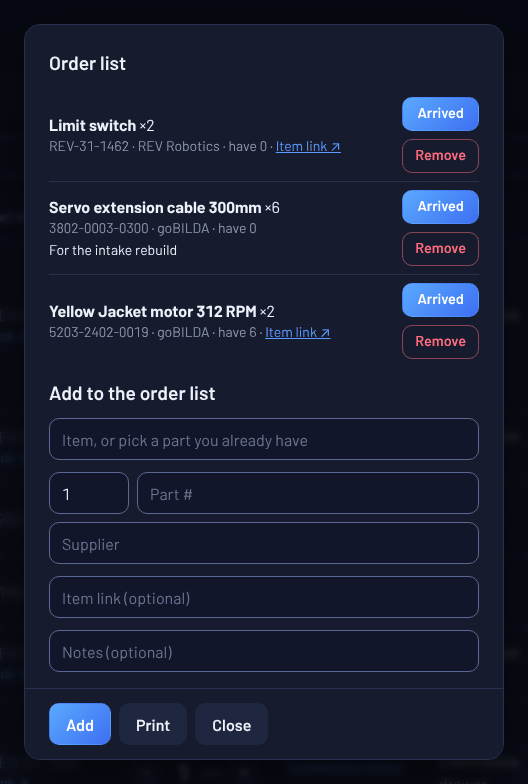
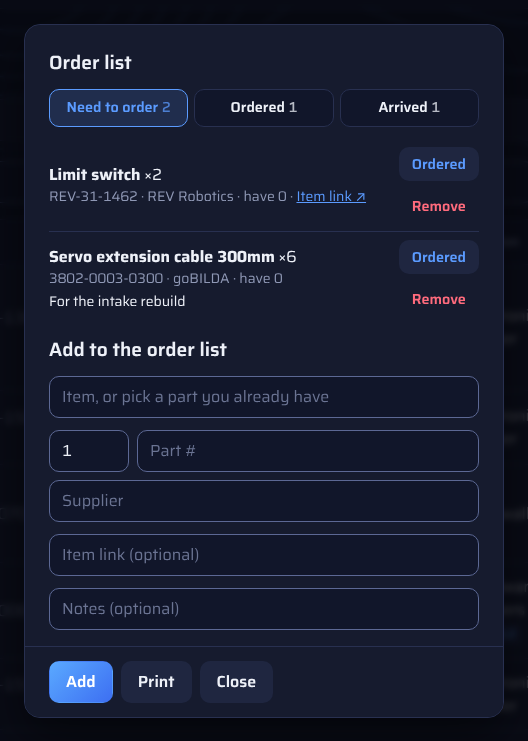
Order list: Need to order, Ordered and Arrived tabs
Orders can carry an optional status, 'ordered' or 'arrived'; orders without one
(every order made before this) still need to be ordered. Ordered moves an order
to the next tab, Arrived adds it to the inventory and keeps it under Arrived
until the team clears it. Print prints the tab shown. Rules version 7.

diff --git a/src/main.js b/src/main.js
@@ -175,8 +175,13 @@ const inventoryNote = (part) => (inventories().length > 1 ? project(part.project
 // A packing list only holds a part once it's checked off as packed.
 const holdsPart = (use) => use.packed !== false;
 const inUse = (partId) => usesOfPart(partId).filter(holdsPart).reduce((sum, u) => sum + u.quantity, 0);
+// An order is to be ordered (no status, like every order from before statuses), ordered, or arrived.
+const orderStatus = (order) => order.status ?? 'need';
+const ORDER_TABS = [['need', 'Need to order'], ['ordered', 'Ordered'], ['arrived', 'Arrived']];
+// Orders still to come: arrived ones are already in the inventory.
+const openOrders = () => state.orders.filter((o) => orderStatus(o) !== 'arrived');
 // How many of a part the team is waiting on from the order list.
-const onOrder = (partId) => state.orders.filter((o) => o.partId === partId).reduce((sum, o) => sum + o.quantity, 0);
+const onOrder = (partId) => openOrders().filter((o) => o.partId === partId).reduce((sum, o) => sum + o.quantity, 0);
 // None of the part has arrived yet: the team has none and some are on order.
 const waiting = (partId) => onOrder(partId) > 0 && !state.parts.find((p) => p.id === partId).quantity;
 // The inventory part's free count (what projects and packed lists aren't using) is down to its "Low stock at" quantity
@@ -1339,7 +1344,7 @@ function chooseBackup() {
 const NAME_FIELDS = [['name', 'Name']];
 const USE_FIELDS = [['quantity', 'Using'], ['packed', 'Packed']];
 const GRID_FIELDS = [['rows', 'Rows'], ['cols', 'Columns']];
-const ORDER_FIELDS = [['name', 'Item'], ['partNumber', 'Part #'], ['quantity', 'Qty'], ['supplier', 'Supplier'], ['link', 'Link'], ['notes', 'Notes']];
+const ORDER_FIELDS = [['name', 'Item'], ['partNumber', 'Part #'], ['quantity', 'Qty'], ['supplier', 'Supplier'], ['link', 'Link'], ['notes', 'Notes'], ['status', 'Status']];
 const useDetails = (use) => ({ quantity: use.quantity, packed: use.packed === undefined ? '' : use.packed ? 'Yes' : 'No' });
 
 // What restoring a backup does: `add` holds what's in it and not in the team. Add mode keeps everything the team has;
@@ -2196,13 +2201,18 @@ async function renameLocation(location) {
   if (edits.length) editParts(edits, 'edited', countParts(edits.length), `Location ${location.name} → ${name}`);
 }
 
-// Parts the team is waiting on. "Arrived" moves an order into the inventory. Tapping an order loads it into the form below to change it.
+// Parts the team needs, has ordered, or got, one tab each. "Ordered" moves an order to the next tab, "Arrived" adds it to the
+// inventory and keeps it under Arrived until the team clears it. Tapping an order loads it into the form below to change it.
 function openOrdersDialog() {
   const dialog = app.querySelector('#dialog');
   dialog.innerHTML = `
     <form method="dialog" class="card">
       <h2>Order list</h2>
+      <div class="order-tabs" role="group" aria-label="Show orders">
+        ${ORDER_TABS.map(([key, label]) => `<button type="button" class="secondary" data-tab="${key}">${label} <span class="tab-count"></span></button>`).join('')}
+      </div>
       <ul id="order-list" class="members"></ul>
+      <button type="button" id="clear-arrived" class="link" hidden>Clear arrived</button>
       <h2 id="order-form-title">Add to the order list</h2>
       <input name="name" maxlength="200" list="order-parts" placeholder="Item, or pick a part you already have" />
       <datalist id="order-parts">${sorted(state.parts.map((p) => p.name)).map((n) => `<option value="${esc(n)}">`).join('')}</datalist>
@@ -2224,7 +2234,18 @@ function openOrdersDialog() {
   autofillFromCatalog(form);
   const list = dialog.querySelector('#order-list');
   const printButton = dialog.querySelector('#print-orders');
-  printButton.onclick = printOrders;
+  const clearButton = dialog.querySelector('#clear-arrived');
+  // The tab shown: one of ORDER_TABS.
+  let tab = 'need';
+  const shown = () => sortedOrders().filter((o) => orderStatus(o) === tab);
+  printButton.onclick = () => printOrders(tab, shown());
+  clearButton.onclick = () => clearArrived(shown());
+  dialog.querySelector('.order-tabs').onclick = (e) => {
+    const button = e.target.closest('[data-tab]');
+    if (!button) return;
+    tab = button.dataset.tab;
+    renderOrders();
+  };
   // The order being changed, or null while the form adds new orders. Its item stays the same.
   let editing = null;
   const setEditing = (order) => {
@@ -2240,19 +2261,30 @@ function openOrdersDialog() {
   dialog.querySelector('#cancel-edit').onclick = () => setEditing(null);
   const renderOrders = () => {
     if (editing && !state.orders.some((o) => o.id === editing.id)) setEditing(null);
-    printButton.disabled = !state.orders.length;
-    list.innerHTML = sortedOrders().map((o) => {
+    for (const button of dialog.querySelectorAll('[data-tab]')) {
+      button.setAttribute('aria-pressed', String(button.dataset.tab === tab));
+      button.querySelector('.tab-count').textContent = state.orders.filter((o) => orderStatus(o) === button.dataset.tab).length;
+    }
+    const orders = shown();
+    printButton.disabled = !orders.length;
+    clearButton.hidden = tab !== 'arrived' || !orders.length;
+    const next = {
+      need: (o) => `<button type="button" class="secondary accent" data-ordered="${esc(o.id)}">Ordered</button>`,
+      ordered: (o) => `<button type="button" class="secondary accent" data-arrived="${esc(o.id)}">Arrived</button>`,
+      arrived: () => '',
+    }[tab];
+    list.innerHTML = orders.map((o) => {
       const part = state.parts.find((p) => p.id === o.partId);
       const details = [o.partNumber, o.supplier, part ? `have ${part.quantity}` : 'new part'].filter(Boolean).map((d) => `<span>${esc(d)}</span>`);
       if (o.link) details.push(`<a href="${esc(o.link)}" target="_blank" rel="noopener">Item link ↗</a>`);
       return `<li>
         <span class="order-text" data-edit="${esc(o.id)}"><strong>${esc(o.name)}</strong> ×${o.quantity} <span class="muted small order-details">${details.join(' · ')}</span>${o.notes ? `<span class="small order-notes">${esc(o.notes)}</span>` : ''}</span>
         <span class="row">
-          <button type="button" class="secondary accent" data-arrived="${esc(o.id)}">Arrived</button>
+          ${next(o)}
           <button type="button" class="danger" data-remove="${esc(o.id)}">Remove</button>
         </span>
       </li>`;
-    }).join('') || '<li class="muted">Nothing on order.</li>';
+    }).join('') || `<li class="muted">${{ need: 'Nothing to order.', ordered: 'Nothing on order.', arrived: 'Nothing has arrived yet.' }[tab]}</li>`;
   };
   // Adding keeps the dialog open; Enter in a field adds too.
   form.onsubmit = (e) => {
@@ -2271,6 +2303,7 @@ function openOrdersDialog() {
         name: editing.name, partId: editing.partId, quantity, partNumber: form.partNumber.value.trim(), supplier: form.supplier.value.trim(),
         ...(link && { link }),
         ...(notes && { notes }),
+        ...(editing.status && { status: editing.status }),
       };
       fb.saveOrder(id, order).catch(showError);
       offerUndo(`Changed ${editing.name}`, () => fb.saveOrder(id, before).catch(showError));
@@ -2293,9 +2326,13 @@ function openOrdersDialog() {
     fb.addOrder(order).catch(showError);
     form.reset();
     form.name.focus();
+    // New orders are still to be ordered.
+    tab = 'need';
+    renderOrders();
   };
   list.onclick = (e) => {
-    const { arrived, remove } = e.target.dataset;
+    const { ordered, arrived, remove } = e.target.dataset;
+    if (ordered) return markOrdered(state.orders.find((o) => o.id === ordered));
     if (arrived) return receiveOrder(state.orders.find((o) => o.id === arrived)).catch(showError);
     if (remove) return trashOrder(state.orders.find((o) => o.id === remove));
     const edit = e.target.closest('[data-edit]')?.dataset.edit;
@@ -2311,11 +2348,24 @@ function openOrdersDialog() {
 
 const sortedOrders = () => [...state.orders].sort((a, b) => a.name.localeCompare(b.name));
 
-// Prints the order list as a table.
-function printOrders() {
+// Prints one tab of the order list as a table.
+function printOrders(tab, orders) {
   const headers = ['Item', 'Part #', 'Qty', 'Supplier', 'Notes'];
-  const rows = sortedOrders().map((o) => [o.name, o.partNumber, String(o.quantity), o.supplier, o.notes ?? '']);
-  printSheet('Order list', `${state.connection.teamName} · ${new Date().toLocaleDateString()}`, headers, [['', rows]]);
+  const rows = orders.map((o) => [o.name, o.partNumber, String(o.quantity), o.supplier, o.notes ?? '']);
+  const title = ORDER_TABS.find(([key]) => key === tab)[1];
+  printSheet(`Order list: ${title}`, `${state.connection.teamName} · ${new Date().toLocaleDateString()}`, headers, [['', rows]]);
+}
+
+function markOrdered(order) {
+  const { id, ...before } = order;
+  fb.saveOrder(id, { ...before, status: 'ordered' }).catch(showError);
+  offerUndo(`${order.name} is ordered`, () => fb.saveOrder(id, before).catch(showError));
+}
+
+// Arrived orders are already in the inventory, so clearing them deletes them without the trash.
+function clearArrived(orders) {
+  fb.deleteOrders(orders.map((o) => o.id)).catch(showError);
+  offerUndo(`Cleared ${count(orders.length, 'arrived order')}`, () => Promise.all(orders.map(({ id, ...order }) => fb.saveOrder(id, order))).catch(showError));
 }
 
 // A typed link as an https:// address ('' when empty, null when it isn't a web address).
@@ -2812,9 +2862,10 @@ function trashOrder(order) {
 }
 
 // The order's part when removing the order would leave it empty: none in stock, not used anywhere and on no other order.
+// An arrived order's part came in, so it stays.
 function emptyPartOf(order) {
   const part = state.parts.find((p) => p.id === order.partId);
-  const empty = part && !part.quantity && !usesOfPart(part.id).length && !state.orders.some((o) => o.id !== order.id && o.partId === part.id);
+  const empty = orderStatus(order) !== 'arrived' && part && !part.quantity && !usesOfPart(part.id).length && !openOrders().some((o) => o.id !== order.id && o.partId === part.id);
   return empty ? part : null;
 }
 

diff --git a/src/demo.js b/src/demo.js
@@ -142,11 +142,12 @@ const SAMPLE_PACKING = [
   ['Control Hub (spare)', 1, false], ['Battery charger', 1, true],
 ];
 
-// [name, part number, quantity, supplier, existing part name or '', notes or '']
+// [name, part number, quantity, supplier, existing part name or '', notes or '', status or '' (still to order)]
 const SAMPLE_ORDERS = [
-  ['Yellow Jacket motor 312 RPM', '5203-2402-0019', 2, 'goBILDA', 'Yellow Jacket motor 312 RPM'],
+  ['Yellow Jacket motor 312 RPM', '5203-2402-0019', 2, 'goBILDA', 'Yellow Jacket motor 312 RPM', '', 'ordered'],
   ['Servo extension cable 300mm', '3802-0003-0300', 6, 'goBILDA', '', 'For the intake rebuild'],
   ['Limit switch', 'REV-31-1462', 2, 'REV Robotics', ''],
+  ['Grip wheel 96mm', '3606-0014-0096', 4, 'goBILDA', 'Grip wheel 96mm', '', 'arrived'],
 ];
 
 function loadSamples() {
@@ -168,9 +169,9 @@ function loadSamples() {
     write('uses', `${PACKING}_${partId}`, { projectId: PACKING, partId, quantity, packed });
   }
   // An order for something new comes with a part in Main Inventory that has none yet, like in the app.
-  for (const [name, partNumber, quantity, supplier, partName, notes] of SAMPLE_ORDERS) {
+  for (const [name, partNumber, quantity, supplier, partName, notes, status] of SAMPLE_ORDERS) {
     if (!partName) addParts([[name, partNumber, 0, '', supplier, '', []]], MAIN_PROJECT);
-    add('orders', { name, partNumber, quantity, supplier, partId: ids.get(partName || name), ...(SAMPLE_LINKS[partNumber] && { link: SAMPLE_LINKS[partNumber] }), ...(notes && { notes }) });
+    add('orders', { name, partNumber, quantity, supplier, partId: ids.get(partName || name), ...(SAMPLE_LINKS[partNumber] && { link: SAMPLE_LINKS[partNumber] }), ...(notes && { notes }), ...(status && { status }) });
   }
   write('uses', `${ROBOT}_${ids.get('Limit switch')}`, { projectId: ROBOT, partId: ids.get('Limit switch'), quantity: 2 });
   add('log', { at: hoursAgo(2), by: USER.uid, byName: 'Husker', action: 'quantity', part: '12V Slim battery', details: 'Quantity +1' });
@@ -289,8 +290,14 @@ export async function receiveOrder(order, newPart, user, count) {
   if (newPart) await saveParts([[newPartId(), newPart]], user);
   else await changeQuantity(order.partId, count, user);
   const { id, ...data } = order;
-  if (count < order.quantity) write('orders', id, { ...data, quantity: order.quantity - count });
-  else remove('orders', id);
+  if (count < order.quantity) {
+    write('orders', id, { ...data, quantity: order.quantity - count });
+    add('orders', { ...data, quantity: count, status: 'arrived' });
+  } else write('orders', id, { ...data, status: 'arrived' });
+}
+
+export async function deleteOrders(ids) {
+  for (const id of ids) remove('orders', id);
 }
 
 const TRASH_COLLECTIONS = { part: 'parts', project: 'projects', order: 'orders' };

diff --git a/src/firebase.js b/src/firebase.js
@@ -193,20 +193,31 @@ export const setUse = (projectId, partId, quantity, packed) => quantity > 0
   : deleteDoc(useRef(projectId, partId));
 
 // The order list: parts the team is waiting on. partId is the inventory part it's for, or '' for a new part.
+// status is 'ordered' or 'arrived'; orders without one still need to be ordered.
 export const addOrder = (order) => addDoc(collection(db, 'orders'), order);
 
 // Replaces an order with its changed version.
 export const saveOrder = (id, order) => setDoc(doc(db, 'orders', id), order);
 
 // Moves `count` of an arrived order into the inventory: creates newPart, or adds them to the order's part.
-// The order is deleted once all of it has arrived; otherwise it keeps what's still to come.
+// The order is marked arrived once all of it has; otherwise it keeps what's still to come and a new arrived order holds `count`.
 export async function receiveOrder(order, newPart, user, count) {
   const batch = writeBatch(db);
   const changed = { updatedBy: user.email, updatedAt: serverTimestamp() };
   if (newPart) batch.set(doc(collection(db, 'parts')), { ...newPart, ...changed });
   else batch.update(doc(db, 'parts', order.partId), { quantity: increment(count), ...changed });
-  if (count < order.quantity) batch.update(doc(db, 'orders', order.id), { quantity: order.quantity - count });
-  else batch.delete(doc(db, 'orders', order.id));
+  const { id, ...data } = order;
+  if (count < order.quantity) {
+    batch.update(doc(db, 'orders', id), { quantity: order.quantity - count });
+    batch.set(doc(collection(db, 'orders')), { ...data, quantity: count, status: 'arrived' });
+  } else batch.update(doc(db, 'orders', id), { status: 'arrived' });
+  await batch.commit();
+}
+
+// Deletes orders for good (arrived ones, whose parts are already in the inventory).
+export async function deleteOrders(ids) {
+  const batch = writeBatch(db);
+  for (const id of ids) batch.delete(doc(db, 'orders', id));
   await batch.commit();
 }
 

diff --git a/src/style.css b/src/style.css
@@ -639,6 +639,12 @@ dialog:has(.part-form) { width: min(720px, calc(100% - 32px)); }
 /* Order rows: details on their own line without splitting a part number, Arrived and Remove stacked the same on every row. */
 #order-list li > .row { flex-direction: column; align-items: stretch; flex-shrink: 0; }
 #order-list .order-text { cursor: pointer; }
+/* Need to order, Ordered and Arrived: one row of equal tabs, the shown one in the accent color like a picked filter. */
+.order-tabs { display: grid; grid-template-columns: repeat(3, minmax(0, 1fr)); gap: 6px; }
+.order-tabs button { min-height: 38px; padding: 4px 6px; background: var(--field); border-color: var(--border); font-size: 0.9rem; white-space: normal; line-height: 1.2; }
+.order-tabs button[aria-pressed="true"] { background: rgb(91 155 255 / 0.15); color: var(--accent); border-color: var(--accent); }
+.tab-count { font-weight: 500; opacity: 0.75; }
+#clear-arrived { align-self: flex-end; }
 /* An order being changed keeps its item. */
 input[name="name"]:read-only { color: var(--muted); }
 .order-details { display: block; }

diff --git a/SUITE.md b/SUITE.md
@@ -32,3 +32,4 @@ The FTC Ultimate apps, Inventory, [Competition](https://github.com/HuskerTheCat/
 - 2026-10-21: App switcher hint: the cube button (`#apps-toggle`) is now an outlined tile with a small chevron (turns up while the menu is open), pointer cursor, accent border on hover/open and a press shrink, so it reads as clickable. Inventory only so far: `.chevron` svg in `APP_SWITCHER` (`src/main.js`) and the `#apps-toggle` rules in `src/style.css`. Competition and Design can copy both.
 - 2026-10-21: Inventory: the app switcher's cube morphs. Opening the menu turns Inventory's cube into the suite cube (one face per app), closing it turns it back, and picking Competition or Design turns it into that app's cube before the app opens. Each change spins the cube a third of a turn clockwise, so the new cube's right face sweeps down from the top, while the faces slide apart and back together (500 ms, Web Animations; an instant swap with reduced motion). `src/cube.js` draws every cube from one table (face colors and glyphs) and does the turn with `morphCube(cube, show)`. Competition and Design can copy `src/cube.js` and the one `.cube .layer` CSS line as is, changing the resting cube from `inventory` to their own in `CUBE` and in `showMenu`.
 - 2026-10-22: Switching apps on the website no longer looks like a page reload. Picking another app in the app switcher fades this page into that app's loading screen (`#switching` in `index.html`: the app's cube turning a third of a turn at a time and fading into a fresh cube each turn so its glyph always lands on the right face, `public/loading.svg`, over "FTC Ultimate" and the app's name in its color, on that app's dark topographic map), then opens the app, which shows the same screen from its first paint until it has drawn its first screen and then fades it out (`public/switching.js`, a plain script in `<head>`; the hand-off is the `sessionStorage` key `ftc-ultimate-switching`). The other apps' pages and loading cubes are prefetched when the menu opens, and browsers with cross-document view transitions also cross-fade the two pages (`@view-transition` in `src/style.css`). Reduced motion: no fades or turning. Same files in Inventory, Competition and Design (`src/switching.js`, `public/switching.js`, the `#switching` block in `src/style.css`, the preloads in `index.html`); each app's `loading.svg` is its own cube and its menu links carry `data-app`. Website only: Inventory's Windows and Android apps still open the installed app. No data change.
+- 2026-10-23: Inventory rules version 7: an order (`orders/{id}`) can have an optional `status`, `'ordered'` or `'arrived'`; orders without one still need to be ordered, so existing docs still pass. The order list has tabs Need to order, Ordered and Arrived; Arrived adds the part to stock and keeps the order with `status: 'arrived'` until the team clears it. Competition and Design: copy Inventory's `validOrder()` and `rulesVersion()` into your combined `firestore.rules`.

diff --git a/docs/HOW-TO.md b/docs/HOW-TO.md
@@ -178,14 +178,16 @@ In the inventory, **Add to** on a part sends it to a project or packing list.
 
 ## 7. Order list
 
-Open **☰ → Orders** to track parts you've ordered.
+Open **☰ → Orders** to track parts you need, have ordered, and got. The list has three tabs: **Need to order**, **Ordered** and **Arrived**.
 
 <img src="how-to/orders.png" alt="The order list" width="440">
 
-- Add an order by typing the item or picking a part you have. A supported part number fills in the rest. Link and notes are optional.
+- Add an order by typing the item or picking a part you have. A supported part number fills in the rest. Link and notes are optional. New orders go under **Need to order**.
 - New items appear in Main Inventory right away as **on order**, so projects and packing lists can use them early.
-- When it arrives, tap **Arrived** to add it to the inventory. If only some came, enter how many; the rest stays on the list.
-- Tap an order to change it. **Print** prints the list.
+- Once you've bought it, tap **Ordered** to move it to the Ordered tab.
+- When it arrives, tap **Arrived** to add it to the inventory and move it to the Arrived tab. If only some came, enter how many; the rest stays under Ordered.
+- **Clear arrived** empties the Arrived tab. The parts stay in the inventory.
+- Tap an order to change it. **Print** prints the tab you're on.
 
 ---
 
